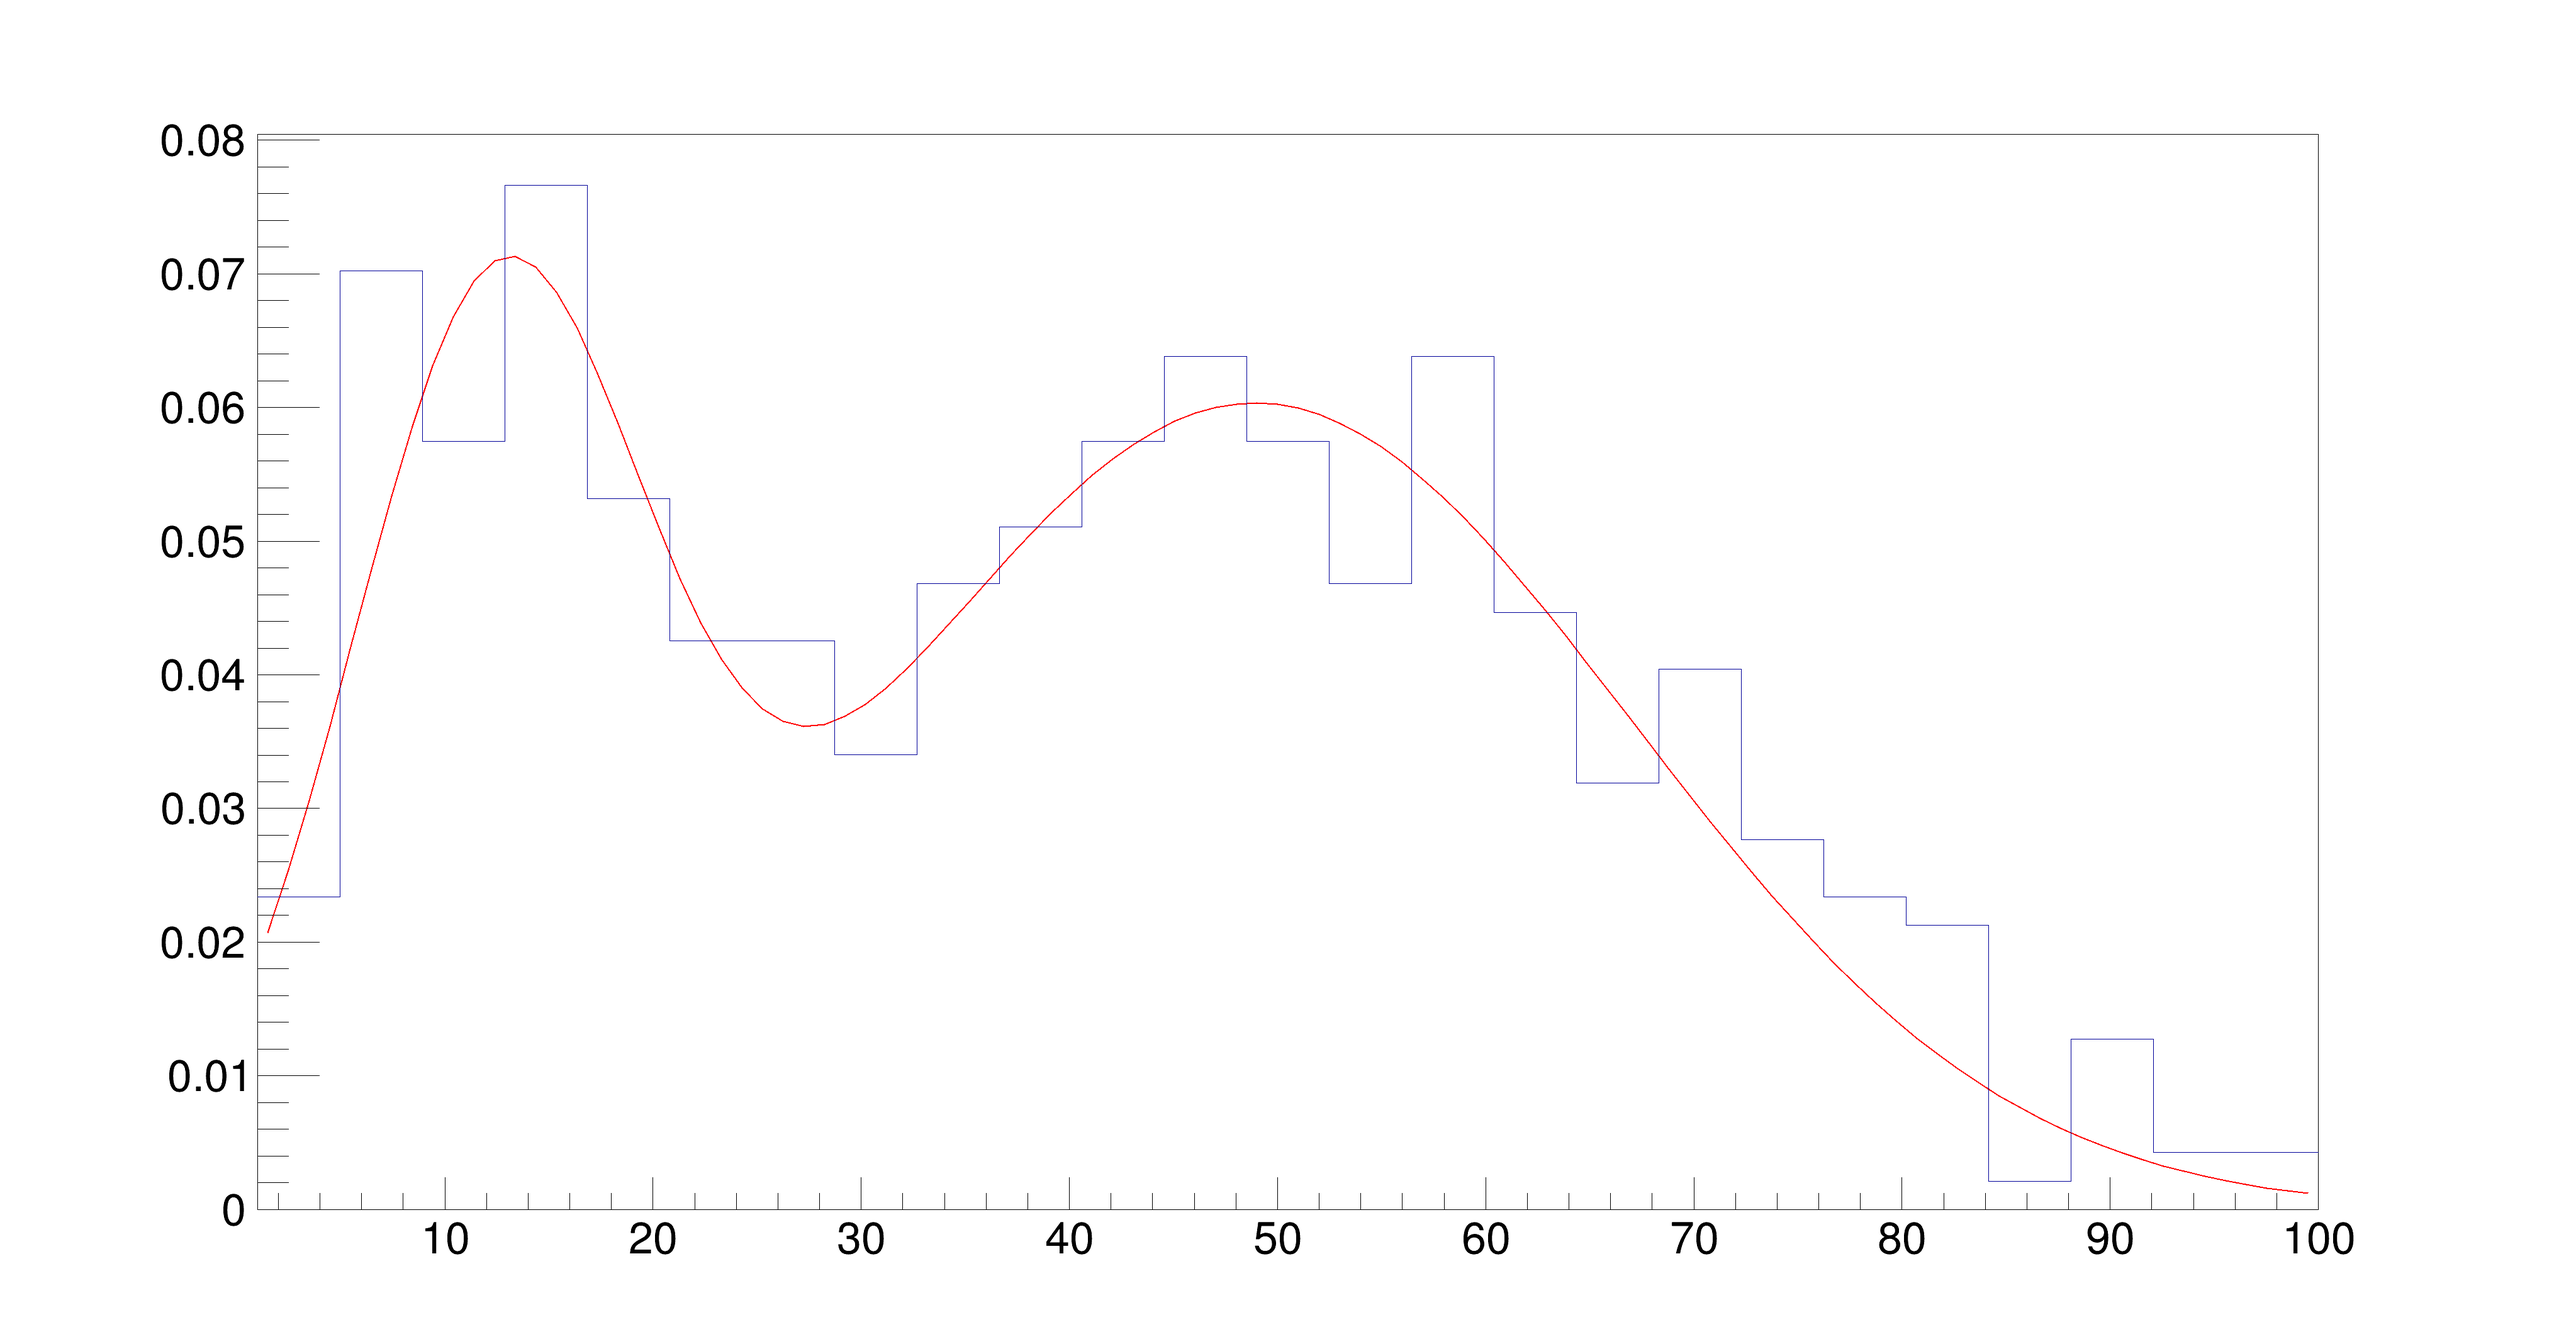
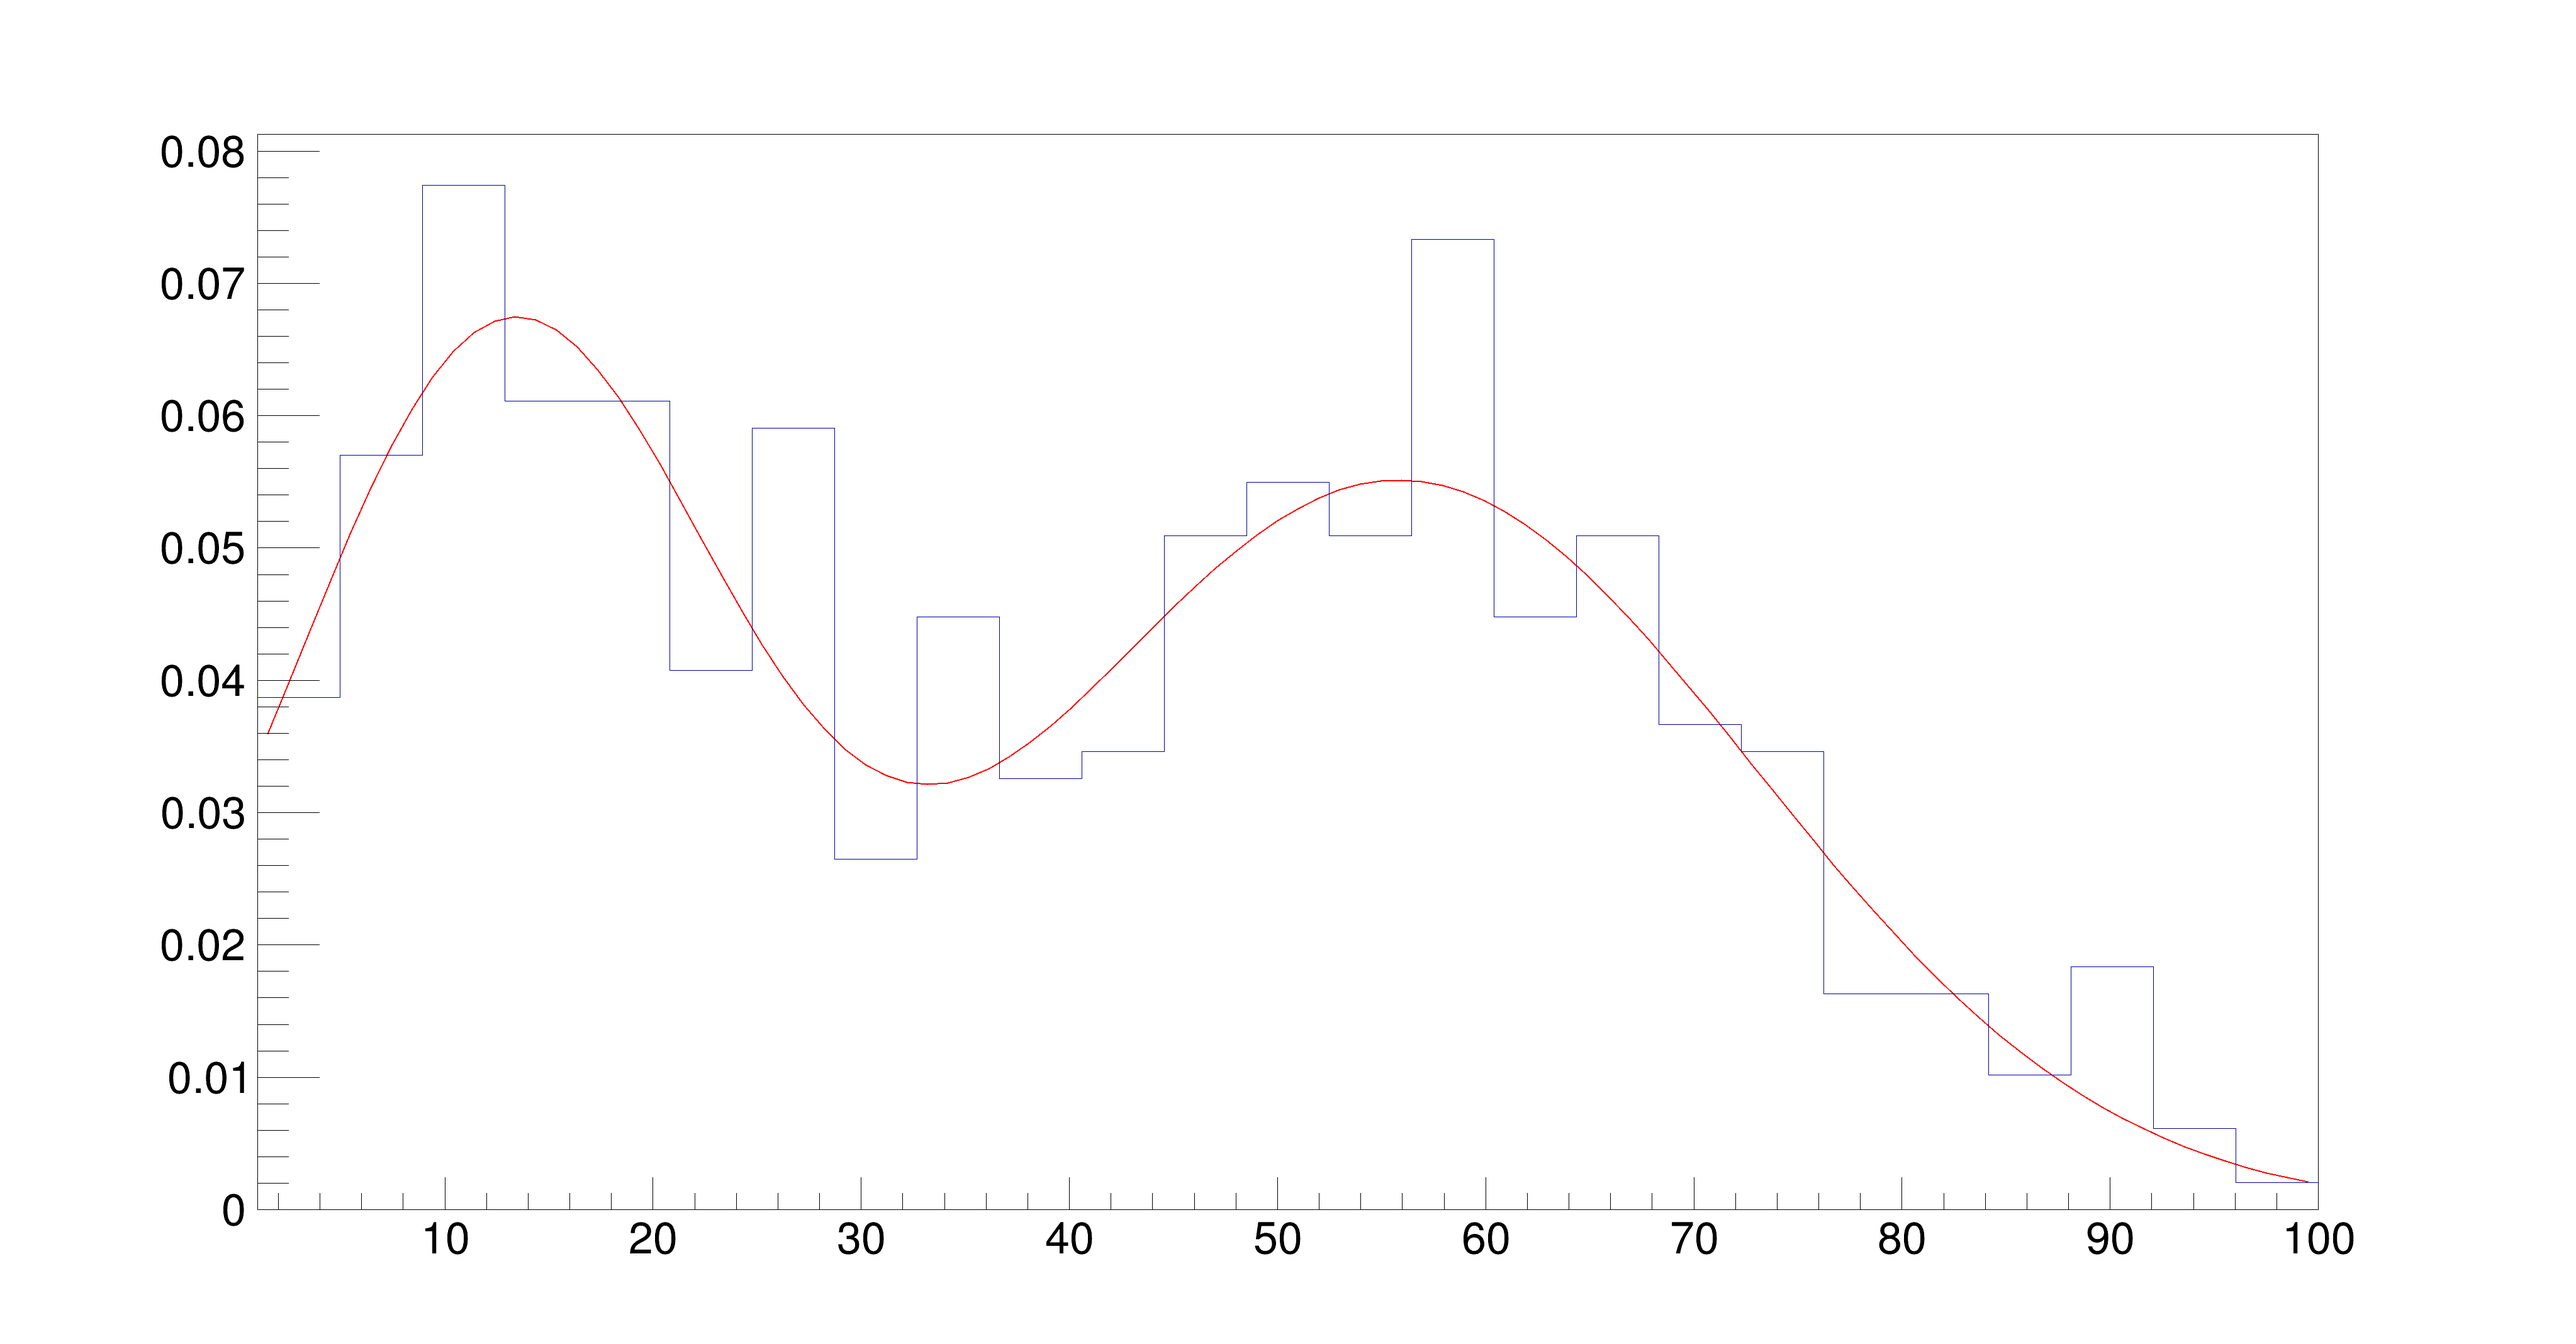
fit test

diff --git a/latex/risultati.tex b/latex/risultati.tex
@@ -374,7 +374,7 @@ Dopo 50 minuti da inizio simulazione, ossia quando vi \`e ancora uno stato di tr
         smooth,
         color=red,
         line width=1.5pt
-    ] {0.165*e^(-(x-19.7)^2/(2*(9.64)^2))};
+    ] {0.177299*e^(-(x-19.849)^2/(2*(8.88775)^2))};
     \end{axis}
     \end{tikzpicture}
     \caption[Distribuzione del tempo di percorrenza con traffico libero]{\emph{Distribuzione del tempo di percorrenza con traffico libero.}}
@@ -395,7 +395,13 @@ Continuando a caricare il sistema ci si aspetta che un numero sempre maggiore di
     ybar interval,
     mark=no,
     line width = 1.25pt
-    ] plot file {./data/travel_time/6000_t.dat};
+    ] plot file {./temp_data/6000_t.dat};
+    \addplot[
+        domain=0:100,
+        smooth,
+        color=red,
+        line width=1.5pt
+    ] {0.113858*e^(-(x-21.9126)^2/(2*(14.7712)^2))};
     \end{axis}
     \end{tikzpicture}
     \caption[Distribuzione del tempo di percorrenza con traffico]{\emph{Distribuzione del tempo di percorrenza con traffico.}}
@@ -417,7 +423,13 @@ L'andamento della frequenza, riportato in Fig. \ref{fig:frequency_congested_flow
     ybar interval,
     mark=no,
     line width = 1.25pt
-    ] plot file {./data/travel_time/12100_t.dat};
+    ] plot file {./temp_data/11400_t.dat};
+    \addplot[
+        domain=0:100,
+        smooth,
+        color=red,
+        line width=1.5pt
+    ] {0.0551253*e^(-(x-55.86)^2/(2*(17.0398)^2))+0.0650764*e^(-(x-12.8479)^2/(2*(10.3336)^2))};
     \end{axis}
     \end{tikzpicture}
     \caption[Distribuzione del tempo di percorrenza con traffico congestionato]{\emph{Distribuzione del tempo di percorrenza con traffico congestionato.}}

diff --git a/utils/macro.cpp b/utils/macro.cpp
@@ -12,19 +12,19 @@ void macro() {
 
   std::ifstream fIn;
   double data;
-  fIn.open("../temp_data/3000_t.dat");
+  fIn.open("../temp_data/3000_root.dat");
   while (fIn >> data) {
     h1->Fill(data);
   }
   fIn.close();
   h1->Scale(1. / h1->Integral(), "nosw2");
-  fIn.open("../temp_data/5200_t.dat");
+  fIn.open("../temp_data/5200_root.dat");
   while (fIn >> data) {
     h2->Fill(data);
   }
   fIn.close();
   h2->Scale(1. / h2->Integral(), "nosw2");
-  fIn.open("../temp_data/10900_t.dat");
+  fIn.open("../temp_data/11400_root.dat");
   while (fIn >> data) {
     h3->Fill(data);
   }
